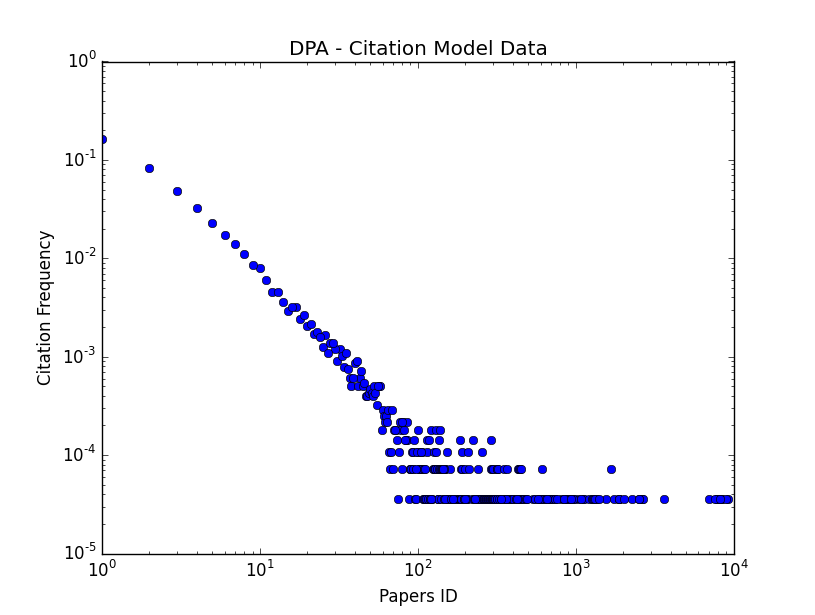
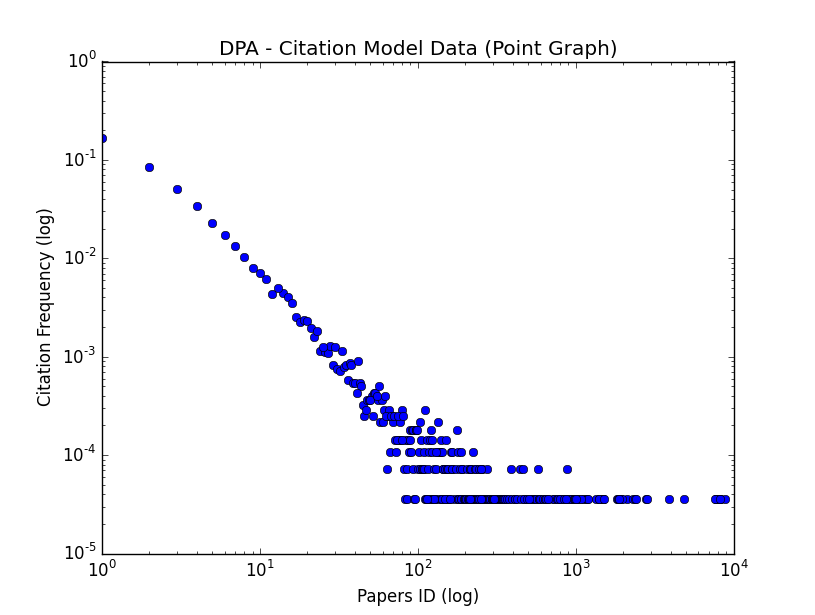
Fixed DPA Graph
Corrected DPA Graph Naming convention

diff --git a/Algorithmic-Thinking/Module-1/Application/DPA.py b/Algorithmic-Thinking/Module-1/Application/DPA.py
@@ -161,8 +161,8 @@ graph1 = normalize_in_degree_distribution(make_DPA_graph(27770,12))
 #print graph1
 
 plt.loglog( graph1.keys(), graph1.values(), 'bo')
-plt.xlabel('Papers ID')
-plt.ylabel('Citation Frequency')
-plt.title('DPA - Citation Model Data')
+plt.xlabel('Papers ID (log)')
+plt.ylabel('Citation Frequency (log)')
+plt.title('DPA - Citation Model Data (Point Graph)')
 plt.show()
 
